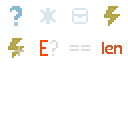
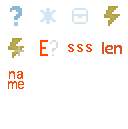
textures, more Tile properties

diff --git a/Basic/DoubleReferenceVariable.cs b/Basic/DoubleReferenceVariable.cs
@@ -20,6 +20,9 @@ namespace TerraIntegration.Basic
         public UIVariableSlot LeftSlot { get; set; }
         public UIVariableSlot RightSlot { get; set; }
 
+        public virtual string LeftSlotDescription => null;
+        public virtual string RightSlotDescription => null;
+
         public abstract Type[] LeftSlotValueTypes { get; }
         public virtual UIDrawing CenterDrawing => new UIDrawing()
         {
@@ -48,7 +51,7 @@ namespace TerraIntegration.Basic
 
                 DisplayOnly = true,
                 VariableValidator = (var) => LeftSlotValueTypes is not null && LeftSlotValueTypes.Any(t => t.IsAssignableFrom(var.VariableReturnType)),
-                HoverText = LeftSlotValueTypes is null ? null : string.Join(", ", LeftSlotValueTypes.Select(t => VariableValue.TypeToName(t, true))),
+                HoverText = TypeListWithDescription(LeftSlotValueTypes, LeftSlotDescription),
 
                 VariableChanged = (var) =>
                 {
@@ -63,7 +66,7 @@ namespace TerraIntegration.Basic
                     if (ValidRightTypes is null)
                     {
                         ValidRightTypes = null;
-                        RightSlot.HoverText = null;
+                        RightSlot.HoverText = RightSlotDescription;
                         RightSlot.Var = null;
                         return;
                     }
@@ -71,7 +74,7 @@ namespace TerraIntegration.Basic
                     if (RightSlot.Var is not null && !ValidRightTypes.Any(t => t.IsAssignableFrom(RightSlot.Var.Var.VariableReturnType)))
                         RightSlot.Var = null;
 
-                    RightSlot.HoverText = string.Join(", ", ValidRightTypes.Select(t => VariableValue.TypeToName(t, true)));
+                    RightSlot.HoverText = TypeListWithDescription(ValidRightTypes, RightSlotDescription);
                 }
             });
 
@@ -91,6 +94,7 @@ namespace TerraIntegration.Basic
 
                 DisplayOnly = true,
                 VariableValidator = (var) => ValidRightTypes is not null && ValidRightTypes.Any(t => t.IsAssignableFrom(var.VariableReturnType)),
+                HoverText = RightSlotDescription
             });
         }
 
@@ -106,6 +110,18 @@ namespace TerraIntegration.Basic
             doubleRef.RightId = RightSlot.Var.Var.Id;
 
             return doubleRef;
+        }
+
+        public string TypeListWithDescription(IEnumerable<Type> types, string description)
+        {
+            if (types is null) return description;
+
+            string result = string.Join(", ", string.Join(", ", types.Select(t => VariableValue.TypeToName(t, true))));
+
+            if (description is not null)
+                result += "\n" + description;
+
+            return result;
         }
 
         public override VariableValue GetValue(ComponentSystem system, List<Error> errors)

diff --git a/ValueProperties/Tile/Frame.cs b/ValueProperties/Tile/Frame.cs
@@ -1,0 +1,65 @@
+using System;
+using System.Collections.Generic;
+using System.Linq;
+using System.Text;
+using System.Threading.Tasks;
+using TerraIntegration.Basic;
+using TerraIntegration.DataStructures;
+using TerraIntegration.Values;
+
+namespace TerraIntegration.ValueProperties.Tile
+{
+    public class FrameX : ValueProperty
+    {
+        public override Type[] ValueTypes => new[] { typeof(Values.Tile), typeof(Wall) };
+        public override string PropertyName => "frameX";
+        public override string PropertyDisplay => "Frame X";
+
+        public override Type VariableReturnType => typeof(Integer);
+
+        public override VariableValue GetProperty(ComponentSystem system, VariableValue value, List<Error> errors)
+        {
+            int frx;
+            if (value is Values.Tile tile)
+                frx = tile.TileFrameX;
+            else frx = (value as Wall).WallFrameX;
+            return new Integer(frx);
+        }
+    }
+
+    public class FrameY : ValueProperty
+    {
+        public override Type[] ValueTypes => new[] { typeof(Values.Tile), typeof(Wall) };
+        public override string PropertyName => "frameY";
+        public override string PropertyDisplay => "Frame Y";
+
+        public override Type VariableReturnType => typeof(Integer);
+
+        public override VariableValue GetProperty(ComponentSystem system, VariableValue value, List<Error> errors)
+        {
+            int fry;
+            if (value is Values.Tile tile)
+                fry = tile.TileFrameY;
+            else fry = (value as Wall).WallFrameY;
+            return new Integer(fry);
+        }
+    }
+
+    public class FrameNumber : ValueProperty
+    {
+        public override Type[] ValueTypes => new[] { typeof(Values.Tile), typeof(Wall) };
+        public override string PropertyName => "frameNum";
+        public override string PropertyDisplay => "Frame Number";
+
+        public override Type VariableReturnType => typeof(Integer);
+
+        public override VariableValue GetProperty(ComponentSystem system, VariableValue value, List<Error> errors)
+        {
+            int frn;
+            if (value is Values.Tile tile)
+                frn = tile.TileFrameNumber;
+            else frn = (value as Wall).WallFrameNumber;
+            return new Integer(frn);
+        }
+    }
+}

diff --git a/ValueProperties/Tile/TileWallColor.cs b/ValueProperties/Tile/TileWallColor.cs
@@ -1,0 +1,30 @@
+using System;
+using System.Collections.Generic;
+using System.Linq;
+using System.Text;
+using System.Threading.Tasks;
+using TerraIntegration.Basic;
+using TerraIntegration.DataStructures;
+using TerraIntegration.Values;
+
+namespace TerraIntegration.ValueProperties.Tile
+{
+    public class TileWallColor : ValueProperty
+    {
+        public override Type[] ValueTypes => new[] { typeof(Values.Tile), typeof(Wall) };
+        public override string PropertyName => "tilecoolor";
+        public override string PropertyDisplay => "Color";
+
+        public override Type VariableReturnType => typeof(Values.Byte);
+
+        public override VariableValue GetProperty(ComponentSystem system, VariableValue value, List<Error> errors)
+        {
+            byte col;
+            if (value is Values.Tile tile)
+                col = tile.Color;
+            else col = (value as Wall).Color;
+
+            return new Values.Byte(col);
+        }
+    }
+}

diff --git a/Variables/StringJoin.cs b/Variables/StringJoin.cs
@@ -6,6 +6,7 @@ using System.Threading.Tasks;
 using TerraIntegration.Basic;
 using TerraIntegration.DataStructures;
 using TerraIntegration.Interfaces;
+using TerraIntegration.UI;
 using TerraIntegration.Values;
 
 namespace TerraIntegration.Variables
@@ -17,6 +18,12 @@ namespace TerraIntegration.Variables
 
         public override Type[] LeftSlotValueTypes => new[] { typeof(Values.String) };
         List<string> Strings = new();
+
+        public override SpriteSheetPos SpriteSheetPos => new(BasicSheet, 2, 1);
+
+        public override string LeftSlotDescription => "Delimeter";
+        public override string RightSlotDescription => $"{VariableValue.TypeToName(typeof(IToString), true)}s to join";
+        public override UIDrawing CenterDrawing => null;
 
         public override Type VariableReturnType => typeof(Values.String);
 

diff --git a/Basic/Variable.cs b/Basic/Variable.cs
@@ -14,6 +14,8 @@ namespace TerraIntegration.Basic
         internal readonly static SpriteSheet BasicSheet = new("TerraIntegration/Assets/Types/basic", new(32, 32));
         internal readonly static SpriteSheet MathSheet = new("TerraIntegration/Assets/Types/math", new(32, 32));
         internal readonly static SpriteSheet CollectionSheet = new("TerraIntegration/Assets/Types/collection", new(32, 32));
+        internal readonly static SpriteSheet BooleanSheet = new("TerraIntegration/Assets/Types/boolean", new(32, 32));
+        internal readonly static SpriteSheet ComparingSheet = new("TerraIntegration/Assets/Types/comparing", new(32, 32));
 
         public virtual Mod Mod => ModContent.GetInstance<TerraIntegration>();
         public static ComponentWorld World => ModContent.GetInstance<ComponentWorld>();

diff --git a/ValueProperties/Type.cs b/ValueProperties/Type.cs
@@ -1,0 +1,24 @@
+using System;
+using System.Collections.Generic;
+using System.Linq;
+using System.Text;
+using System.Threading.Tasks;
+using TerraIntegration.Basic;
+using TerraIntegration.DataStructures;
+using TerraIntegration.Interfaces;
+using TerraIntegration.Values;
+
+namespace TerraIntegration.ValueProperties
+{
+    public class TypeProp : ValueProperty
+    {
+        public override System.Type[] ValueTypes => new[] { typeof(ITyped) };
+        public override string PropertyName => "type";
+        public override string PropertyDisplay => "Type";
+
+        public override VariableValue GetProperty(ComponentSystem system, VariableValue value, List<Error> errors)
+        {
+            return new Integer(((ITyped)value).Type);
+        }
+    }
+}

diff --git a/Values/Tile.cs b/Values/Tile.cs
@@ -10,7 +10,7 @@ using Terraria.ModLoader;
 
 namespace TerraIntegration.Values
 {
-    public class Tile : VariableValue, INamed
+    public class Tile : VariableValue, INamed, ITyped
     {
         public override string Type => "tile";
         public override string TypeDisplay => "Tile";
@@ -47,6 +47,7 @@ namespace TerraIntegration.Values
                 return TileLoader.GetTile(TileType)?.Name;
             }
         }
+        int ITyped.Type => TileType;
 
         static Dictionary<int, string> VanillaTileNameCache = new();
 

diff --git a/Values/Wall.cs b/Values/Wall.cs
@@ -9,7 +9,7 @@ using Terraria.ModLoader;
 
 namespace TerraIntegration.Values
 {
-    public class Wall : VariableValue, INamed
+    public class Wall : VariableValue, INamed, ITyped
     {
         public override string Type => "wall";
         public override string TypeDisplay => "Wall";
@@ -36,6 +36,7 @@ namespace TerraIntegration.Values
                 return WallLoader.GetWall(WallType)?.Name;
             }
         }
+        int ITyped.Type => WallType;
 
         static Dictionary<int, string> VanillaWallNameCache = new();
 

diff --git a/Components/Component.cs b/Components/Component.cs
@@ -49,7 +49,7 @@ namespace TerraIntegration.Components
         public virtual bool CanHaveVariables => false;
 
         public virtual string DefaultPropertyTexture => null;
-        public virtual SpriteSheet DefaultPropertySpriteSheet => null;
+        public virtual SpriteSheet DefaultPropertySpriteSheet { get; set; } = null;
         public virtual Point DefaultPropertySpriteSheetPos => default;
 
         public bool HasInterface => HasCustomInterface || VariableInfo?.Length is not null and > 0 || HasProperties();

diff --git a/ValueConversions/ToLong.cs b/ValueConversions/ToLong.cs
@@ -16,6 +16,8 @@ namespace TerraIntegration.ValueConversions
         public override Type[] ConvertFrom => new[] { typeof(INumeric), typeof(IDecimal) };
         public override Type ConvertTo => typeof(Long);
 
+        public override SpriteSheetPos SpriteSheetPos => new(ConvSheet, 2, 1);
+
         public override bool AppliesTo(VariableValue value) => value is not Long;
         
         public override VariableValue GetProperty(ComponentSystem system, VariableValue value, List<Error> errors)

diff --git a/ComponentProperties/TileReader/HasTile.cs b/ComponentProperties/TileReader/HasTile.cs
@@ -16,6 +16,8 @@ namespace TerraIntegration.ComponentProperties.TileReader
         public override string PropertyName => "hasTile";
         public override string PropertyDisplay => "Has Tile";
 
+        public override SpriteSheetPos SpriteSheetPos => new(0, 0);
+
         public override Type VariableReturnType => typeof(Values.Boolean);
 
         public override VariableValue GetProperty(Components.TileReader component, Point16 pos, List<Error> errors)

diff --git a/ComponentProperties/TileReader/TileData.cs b/ComponentProperties/TileReader/TileData.cs
@@ -15,6 +15,8 @@ namespace TerraIntegration.ComponentProperties.TileReader
         public override string PropertyName => "tiledata";
         public override string PropertyDisplay => "Tile";
 
+        public override SpriteSheetPos SpriteSheetPos => new(1, 0);
+
         public override Type VariableReturnType => typeof(Tile);
 
         public override VariableValue GetProperty(Components.TileReader component, Point16 pos, List<Error> errors)
